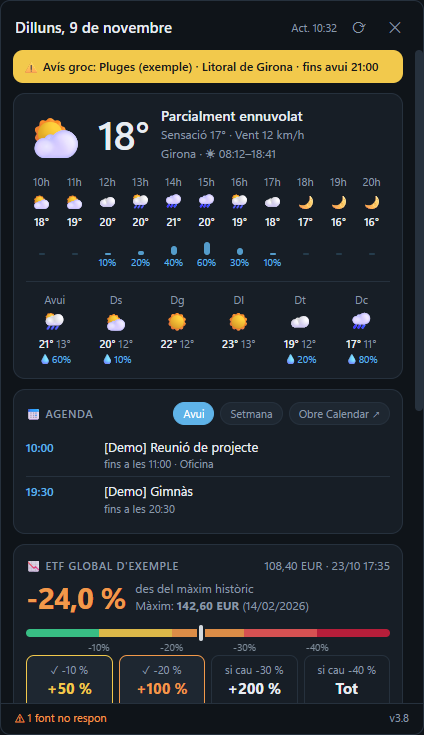
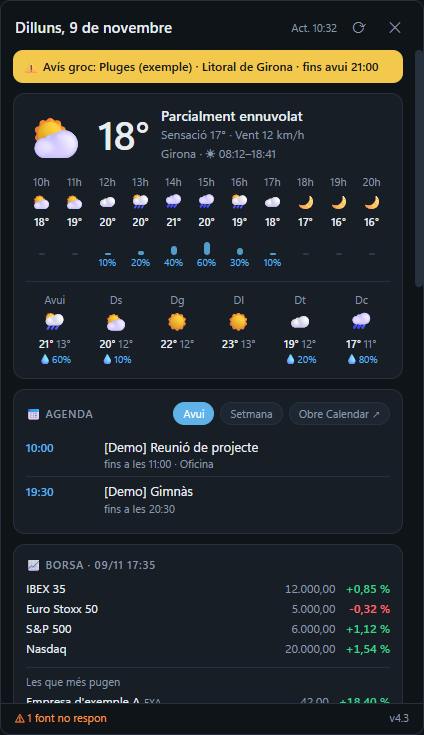
docs: refresh README screenshots for markets, sports and news sections

Changed region(s): [[0.0613, 0.7483, 0.9198, 0.9578], [0.9811, 0.3891, 1.0, 0.5687], [0.9198, 0.9578, 0.9505, 0.9878]]

diff --git a/README.md b/README.md
@@ -10,7 +10,7 @@ Widget de escritorio para Windows que reúne en un panel el tiempo, la agenda, e
 <p align="center">
   <img src="docs/capturas/panel.png" width="31%" alt="Panel: avisos, tiempo, agenda y bolsa">
   <img src="docs/capturas/panel-noticias.png" width="31%" alt="Panel: deportes y noticias por secciones">
-  <img src="docs/capturas/asistente.png" width="34%" alt="Asistente de configuración">
+  <img src="docs/capturas/asistente.png" width="34%" alt="Asistente: paso de medios">
 </p>
 <p align="center"><sub>Capturas con <code>--demo</code> (datos inventados). Interfaz en catalán.</sub></p>
 
